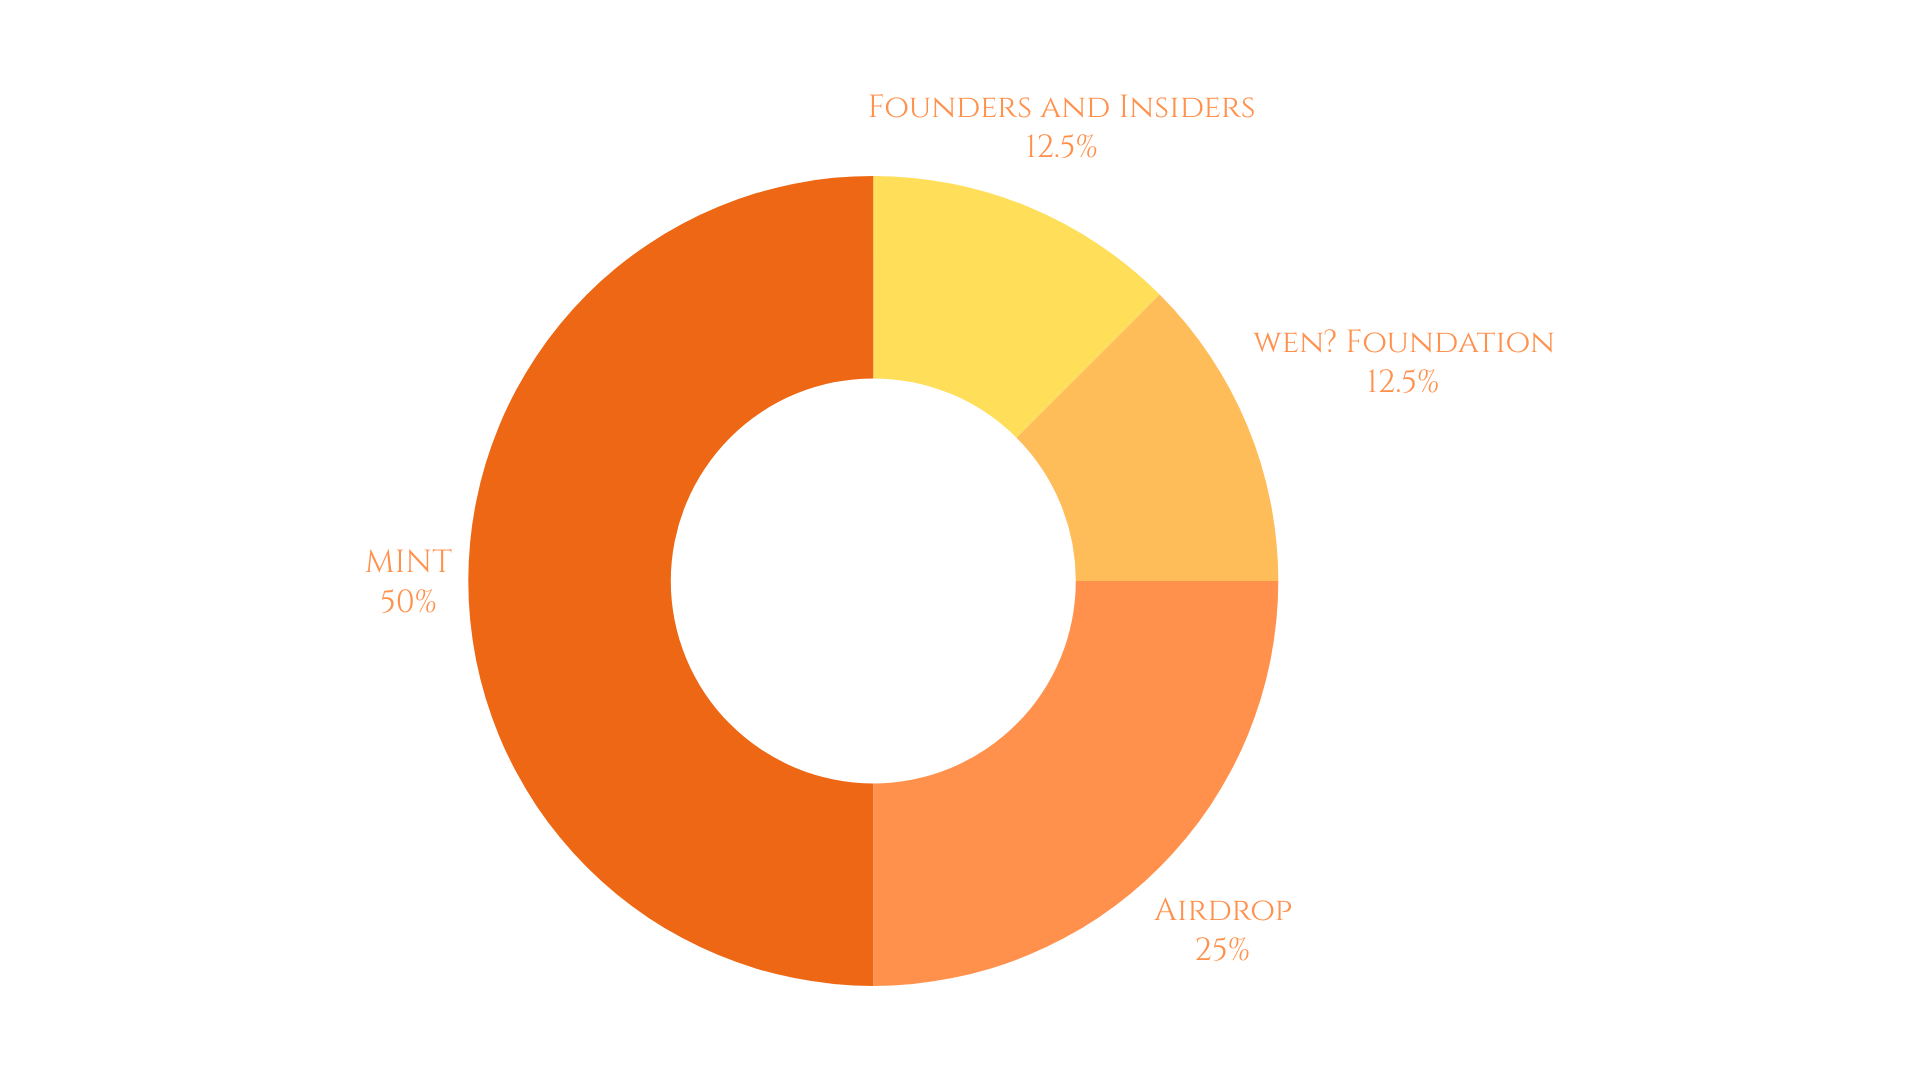
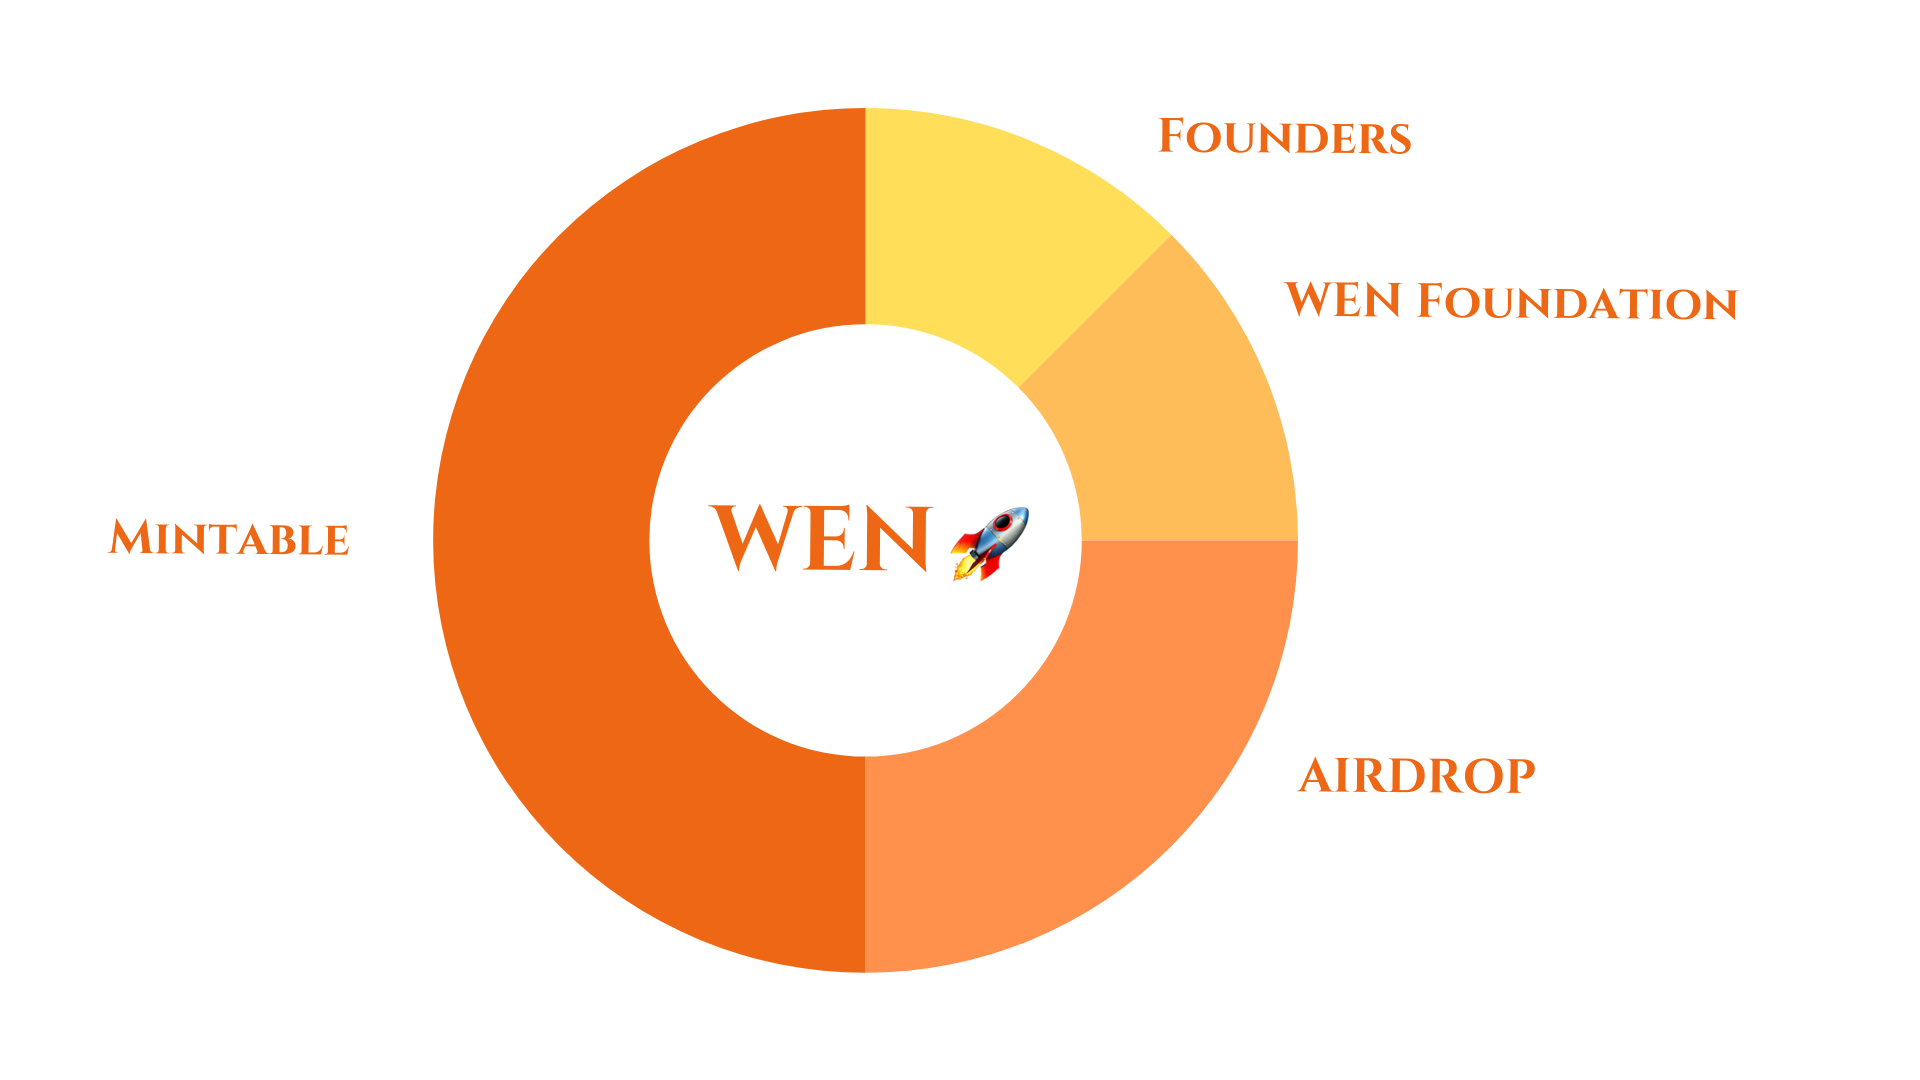
Update Images

diff --git a/lib/pages/airdrop.dart b/lib/pages/airdrop.dart
@@ -38,7 +38,7 @@ class Airdrop extends StatelessWidget {
                       padding: EdgeInsets.symmetric(
                           horizontal: horizontalPadding, vertical: 16),
                       child: Image.asset(
-                        'assets/wenn.png',
+                        'assets/airdrop.png',
                         fit: BoxFit.cover,
                       ),
                     ),
